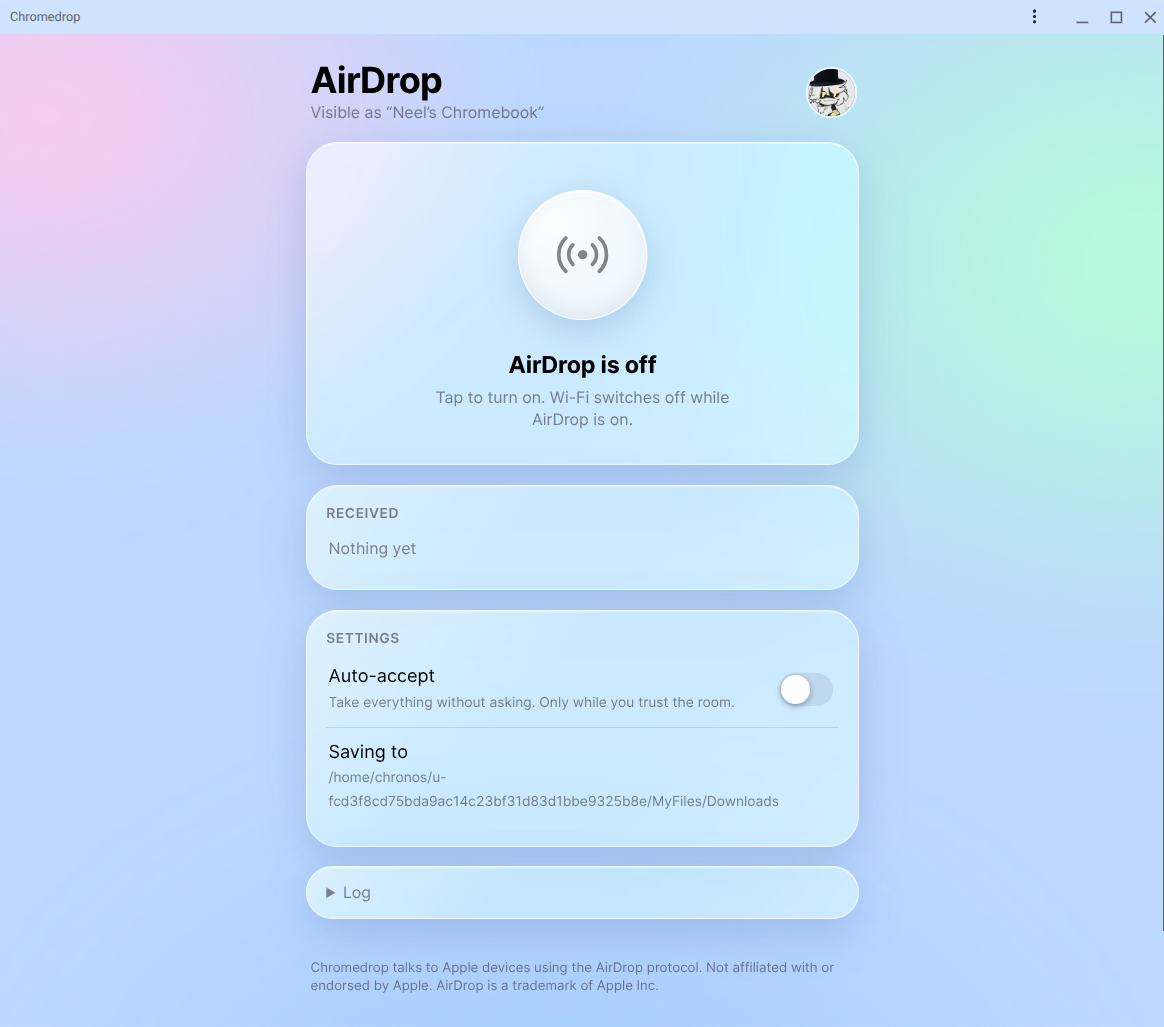
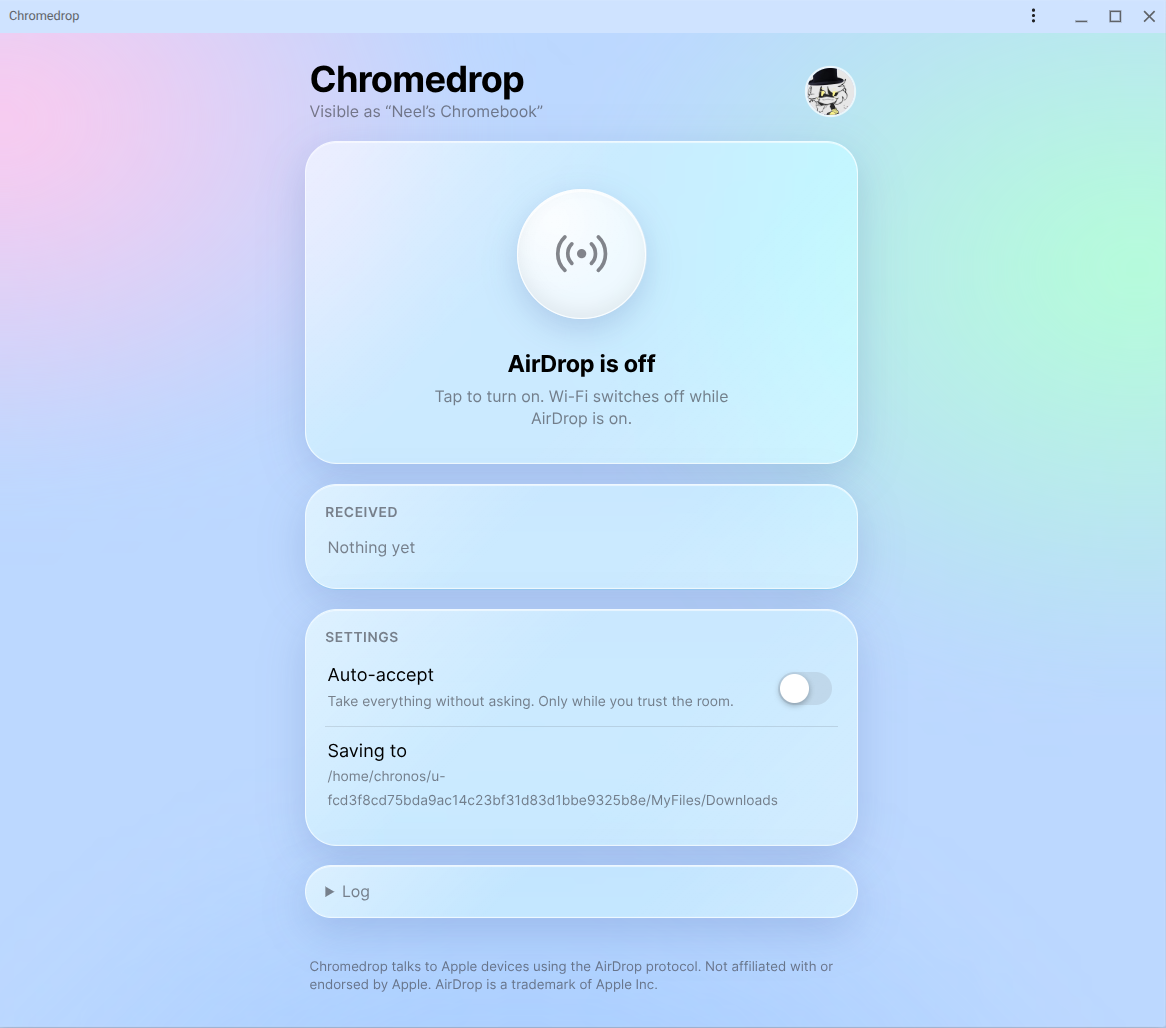
Chromedrop

diff --git a/web/index.html b/web/index.html
@@ -562,7 +562,7 @@
 
     <header>
       <div>
-        <h1>AirDrop</h1>
+        <h1>Chromedrop</h1>
         <p id="vis">Visible as …</p>
       </div><img id="me" class="ava hide" alt="">
       <div id="meini" class="ava"></div>
